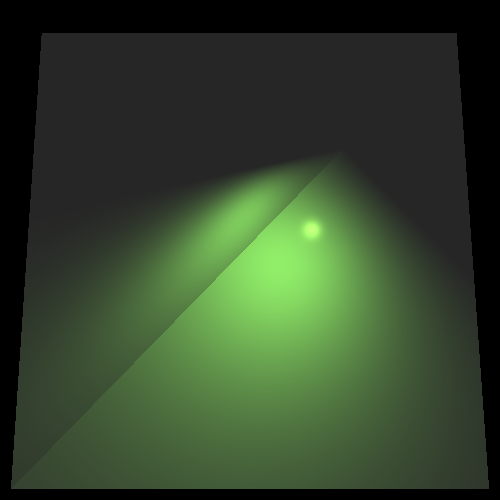
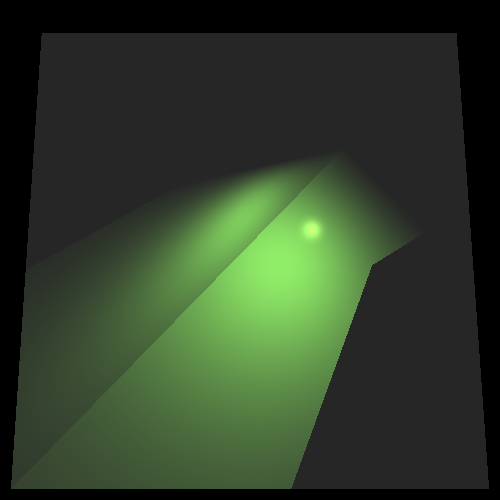
stage 7 - start

Changed region(s): [[0.57, 0.48, 0.93, 0.99]]

diff --git a/src/renderer/SimpleRayTracer.java b/src/renderer/SimpleRayTracer.java
@@ -21,6 +21,30 @@ import static primitives.Util.alignZero;
  * Implementation of RayTracerBase, basic ray tracing
  */
 public class SimpleRayTracer extends RayTracerBase {
+    private static final double DELTA = 0.1;
+    private boolean unshaded(GeoPoint geoPoint, LightSource light, Vector l, Vector n,double ln) {
+        Vector lightDirection = l.scale(-1);
+        Ray ray = new Ray(geoPoint.point, lightDirection);
+        List<GeoPoint> intersections = scene._geometries.findGeoIntersections(ray);
+
+        if (intersections == null)
+            return true;
+
+        intersections.removeIf(
+                (item) -> {
+                    return item.geometry.getMaterial().kT.lowerThan(MIN_CALC_COLOR_K);
+                }
+        );
+        if (intersections.isEmpty())
+            return true;
+        else
+            return false;
+    //return intersections == null || intersections.isEmpty();
+
+    }
+
+
+
 
     /**
      * Constructor defined by scene
@@ -63,7 +87,7 @@ public class SimpleRayTracer extends RayTracerBase {
         for (LightSource lightSource : scene.lights){
             Vector l = lightSource.getL(point);
             double nl = alignZero(n.dotProduct(l));
-            if ( (nl * nv > 0)  ) {     //&& unshaded(geoPoint, lightSource, l, n, nl)
+            if ( (nl * nv > 0)  && unshaded(geoPoint, lightSource, l, n, nl)){
                 Color iL = lightSource.getIntensity(point);
                 color = color.add(
                         iL.scale(calcDiffusive(material,nl)
@@ -86,12 +110,6 @@ public class SimpleRayTracer extends RayTracerBase {
         return material.kS.scale(pow(max, material.nShininess));
     }
 
-//    private boolean unshaded(GeoPoint geoPoint, LightSource light, Vector l, Vector n,double ln) {
-//        Vector lightDirection = l.scale(-1);
-//        Ray ray = new Ray(geoPoint.point, lightDirection);
-//        List<GeoPoint> intersections = scene. geometries.findGeoIntersections(ray);
-//        return intersections == null || intersections.isEmpty();
-//    }
 }
 
 

diff --git a/src/lighting/AmbientLight.java b/src/lighting/AmbientLight.java
@@ -3,6 +3,7 @@ package lighting;
 
 import primitives.Color;
 import primitives.Double3;
+import primitives.Point;
 
 /**
  * class AmbientLight extends of light to show the ambient light of the scene
@@ -24,5 +25,4 @@ public class AmbientLight extends Light {
     public AmbientLight(Color Ia, double Ka) {
         super(Ia.scale(Ka));
     }
-
 }

diff --git a/src/lighting/SpotLight.java b/src/lighting/SpotLight.java
@@ -52,9 +52,11 @@ public class SpotLight extends PointLight{
         return super.getIntensity(p).scale(Double.max(0, direction.dotProduct(getL(p))));
     }
 
-
-
     public Vector getL(Point p) {
         return super.getL(p);
     }
+
+//    public double getDistance(Point p) {
+//        return position.distance(p);
+//    }
 }

diff --git a/unitTests/lighting/LightsTests.java b/unitTests/lighting/LightsTests.java
@@ -100,7 +100,6 @@ public class LightsTests {
       camera1.setImageWriter(new ImageWriter("lightSphereDirectional", 500, 500))
               .build()
               .renderImage()
-     // camera1.build()
               .writeToImage();
    }
 
